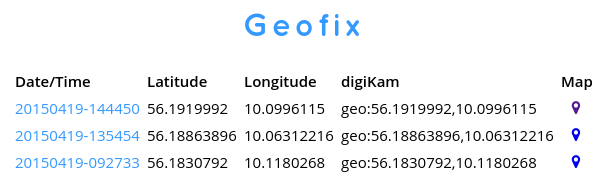
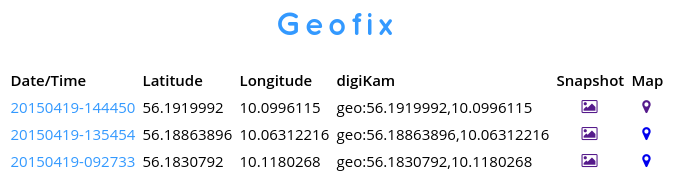
dn2820fykh-kubuntu :coffee:

diff --git a/geofix-web/main.py b/geofix-web/main.py
@@ -4,8 +4,8 @@ from bottle import route, run, debug, template, request, redirect, static_file
 
 @route('/geofix')
 def geofix():
-    if os.path.exists('geofix.sqlite'):
-        conn = sqlite3.connect('geofix.sqlite')
+    if os.path.exists('static/Geofix/geofix.sqlite'):
+        conn = sqlite3.connect('static/Geofix/geofix.sqlite')
         c = conn.cursor()
         c.execute("SELECT * FROM geofix ORDER BY dt DESC")
         result = c.fetchall()

diff --git a/README.md b/README.md
@@ -29,7 +29,7 @@ Open the SL4A (or QPython) app, and run the *geofix.py* script. For faster acces
 - Install the Python Package Manager (pip). On Debian and Ubuntu, this can be done by running the `apt-get install python-pip` command as root.
 - Install pip. To do this on Debian and Ubuntu, run the `pip install bottle` as root.
 - Clone the project's GitHub repository using the `git clone https://github.com/dmpop/geofix.git` command. Alternatively, grab the latest source code from the project's GitHub repository and unpack the downloaded ZIP archive.
-- Copy the *geofix.sqlite* database from the Android device to the *geofix-web* directory.
+- Copy the *Geofix* directory containing the *geofix.sqlite* database and snapshots from the Android device to the *geofix-web/static* directory.
 - Switch to the *geofix-web* directory and run `./main.py` to start the app. Point the browser to http://127.0.0.1:8381/geofix to access it.
 
 ## License
